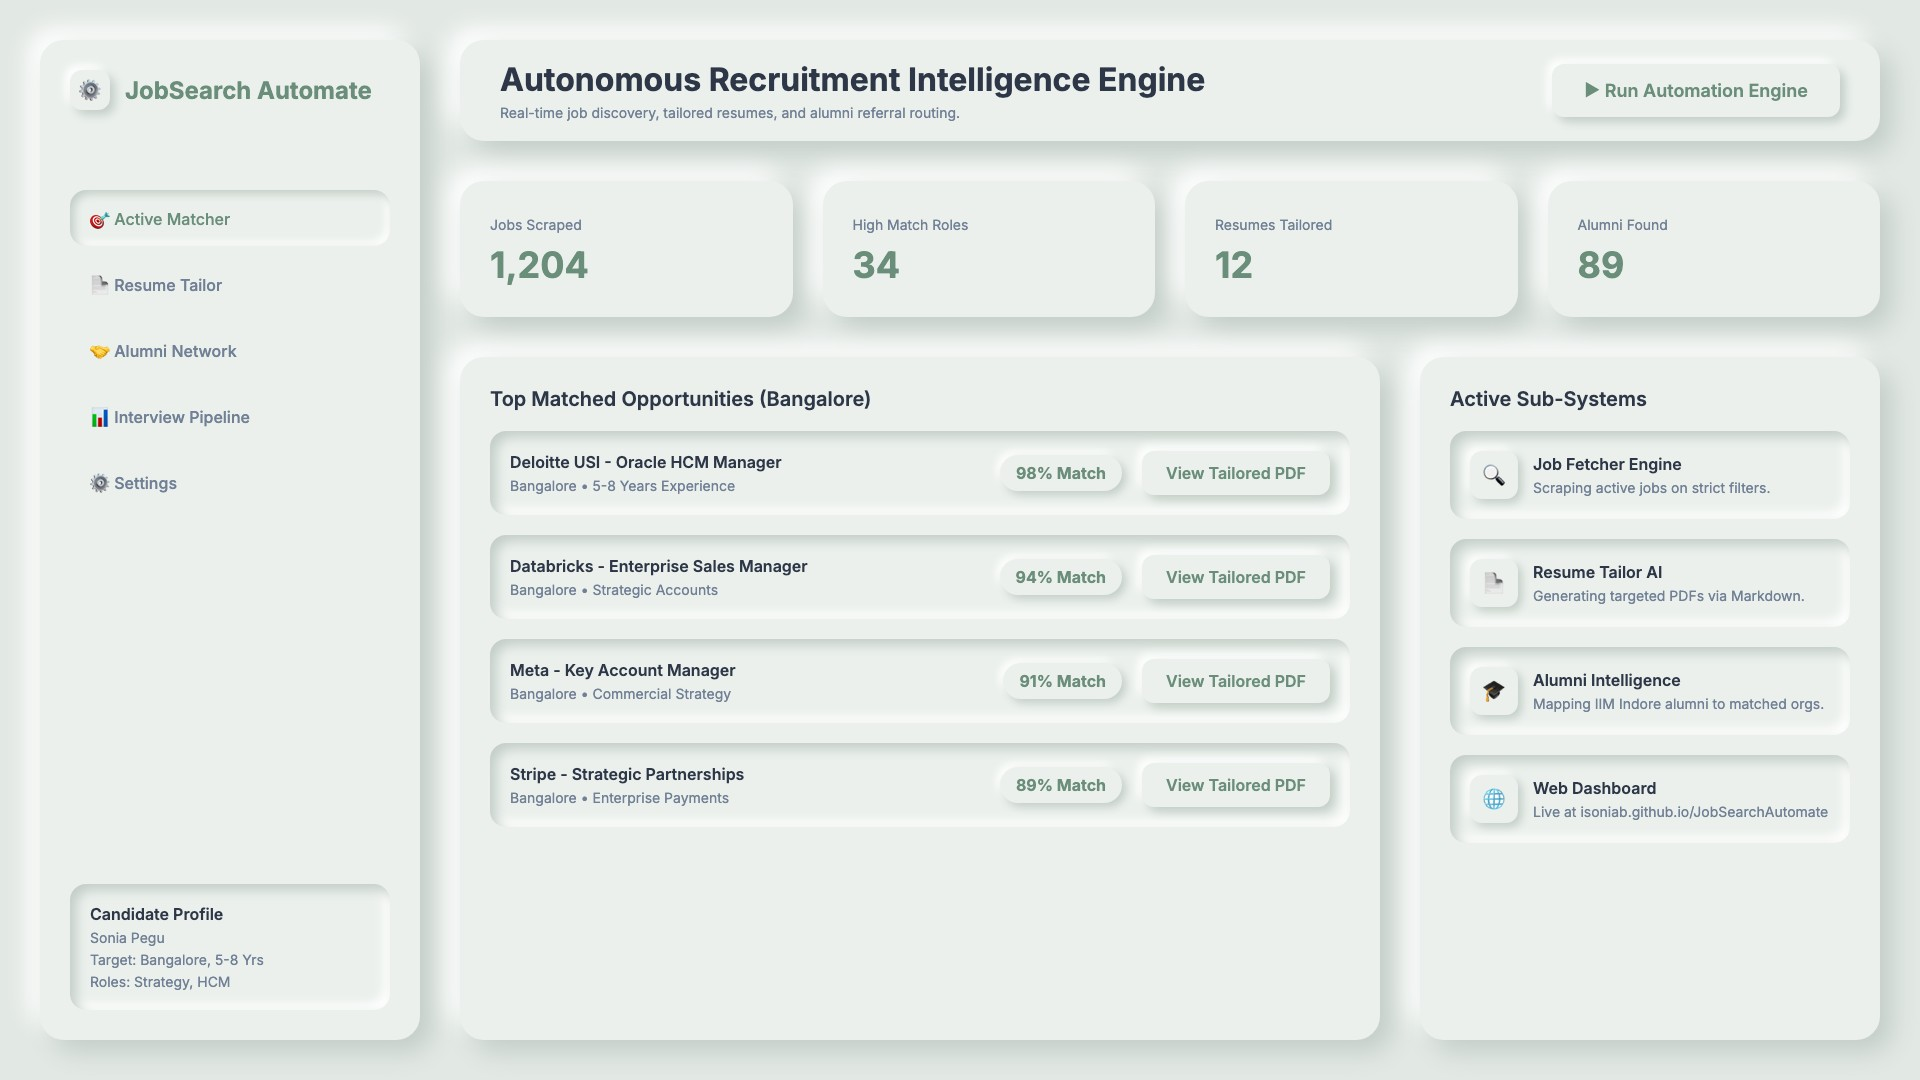
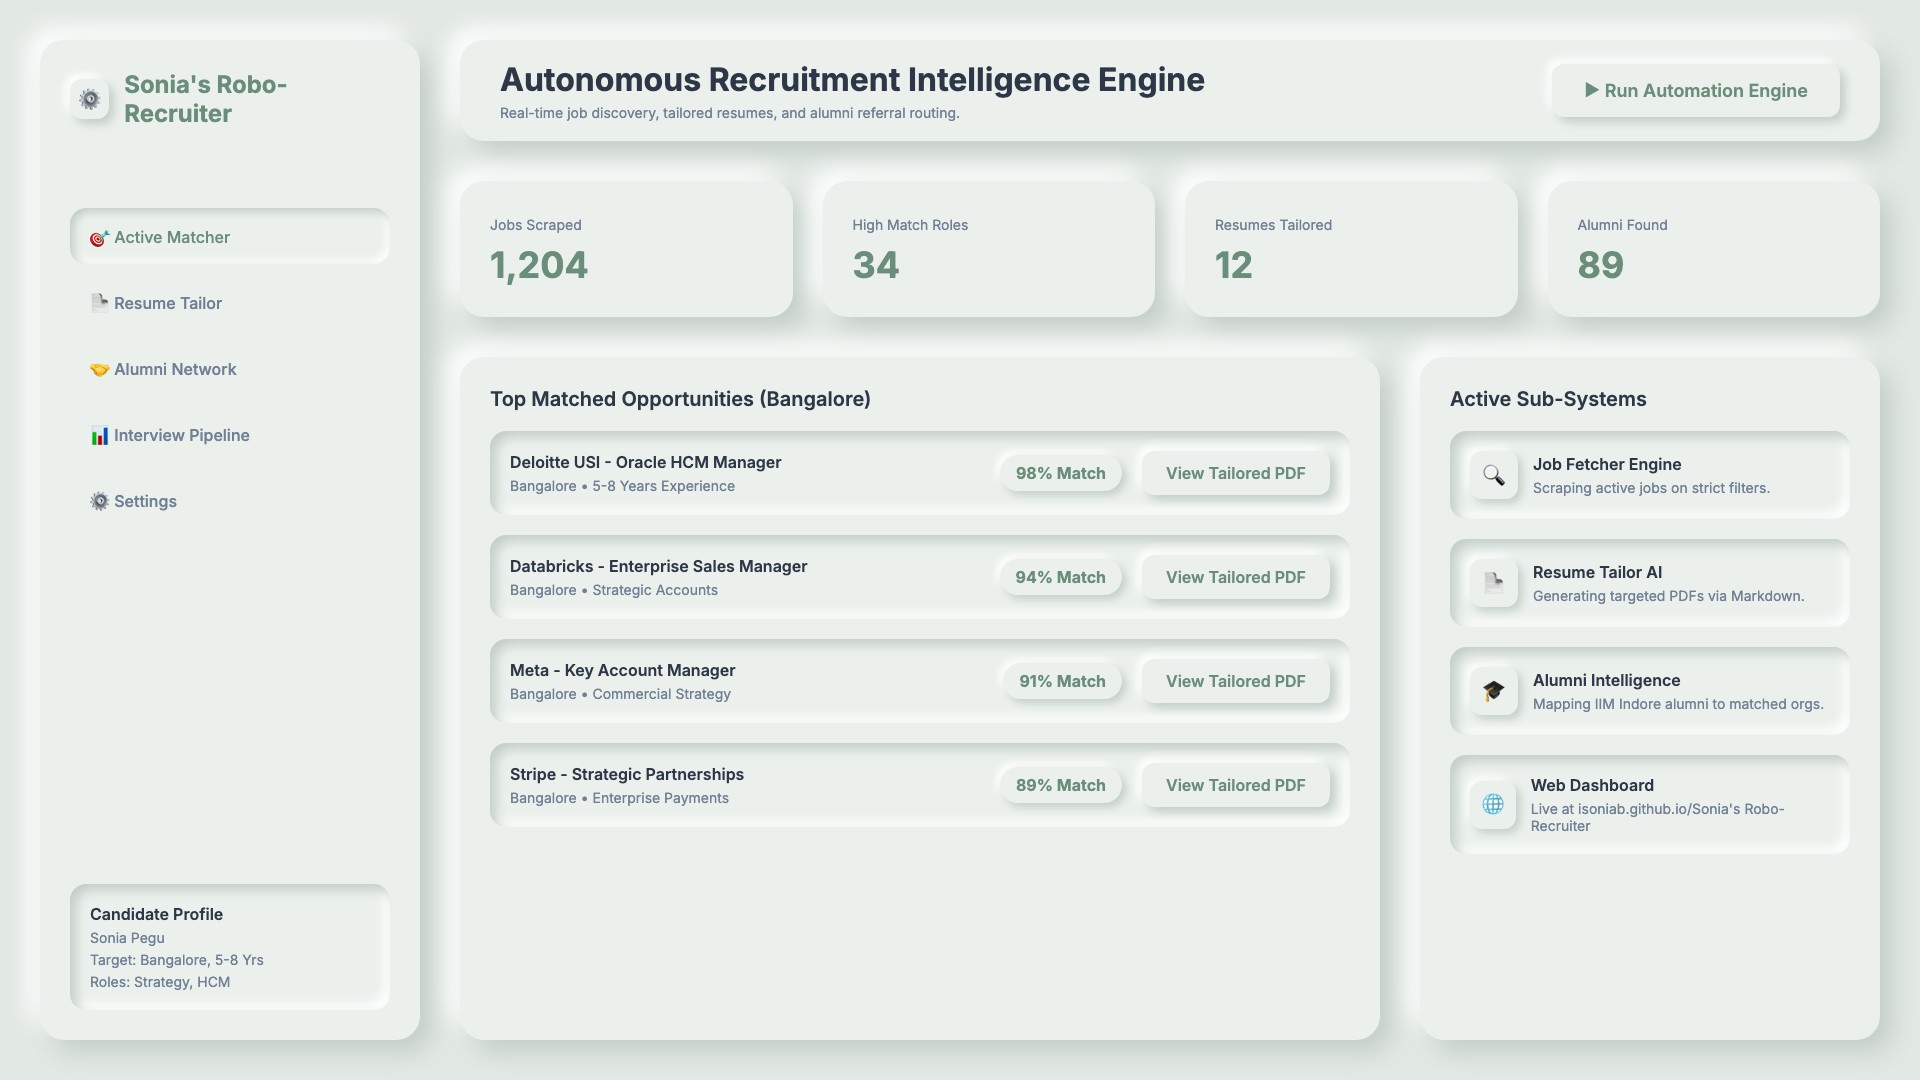
Rename project to Sonia's Robo-Recruiter

Changed region(s): [[0.0312, 0.1833, 0.125, 0.4889], [0.75, 0.7028, 0.9375, 0.7639], [0.0312, 0.0611, 0.1875, 0.1222]]

diff --git a/public/index.html b/public/index.html
@@ -3,9 +3,9 @@
 <head>
     <meta charset="UTF-8">
     <meta name="viewport" content="width=device-width, initial-scale=1.0">
-    <title>JobSearchAutomate - Autonomous Job Search & Referral Intelligence Engine</title>
+    <title>Sonia's Robo-Recruiter - Autonomous Job Search & Referral Intelligence Engine</title>
     <meta name="description" content="Autonomous recruitment intelligence engine by Sonia Pegu. Discovers 90%+ match enterprise sales, KAM & commercial payments roles in Bangalore with tailored resumes and alumni referral paths.">
-    <meta property="og:title" content="JobSearchAutomate - Autonomous Recruitment Intelligence Engine">
+    <meta property="og:title" content="Sonia's Robo-Recruiter - Autonomous Recruitment Intelligence Engine">
     <meta property="og:description" content="Autonomous recruitment intelligence engine by Sonia Pegu (IIM Indore MBA & BE CS). Real-time match scoring, tailored resumes, and alumni referral intelligence.">
     <meta property="og:image" content="https://job-search-automate.netlify.app/social_preview.png">
     <meta property="og:type" content="website">
@@ -313,7 +313,7 @@
             <div class="user-title">
                 <div class="avatar">SP</div>
                 <div class="header-text">
-                    <h1>JobSearchAutomate - Sonia Pegu</h1>
+                    <h1>Sonia's Robo-Recruiter - Sonia Pegu</h1>
                     <p>MBA IIM Indore & CS Engineer | Autonomous Intake & Alumni Intelligence Engine | 📍 Bengaluru</p>
                 </div>
             </div>

diff --git a/README.md b/README.md
@@ -1,8 +1,8 @@
-# 🚀 JobSearchAutomate
+# 🚀 Sonia's Robo-Recruiter
 
 **Autonomous Job Discovery, Dynamic Resume Tailoring & Referral Intelligence Platform**
 
-![JobSearchAutomate UI Dashboard Thumbnail](project_thumbnail.jpg)
+![Sonia's Robo-Recruiter UI Dashboard Thumbnail](project_thumbnail.jpg)
 
 [![Python 3.10+](https://img.shields.io/badge/Python-3.10+-3776AB?style=for-the-badge&logo=python&logoColor=white)](https://www.python.org/)
 [![Playwright](https://img.shields.io/badge/Playwright-Automation-2EAD33?style=for-the-badge&logo=playwright&logoColor=white)](https://playwright.dev/)
@@ -13,9 +13,9 @@
 
 ## 📌 Executive Summary
 
-**JobSearchAutomate** is an autonomous recruitment intelligence engine designed to streamline candidate job discovery, eliminate cold application drop-offs, and automate dynamic resume tailoring. 
+**Sonia's Robo-Recruiter** is an autonomous recruitment intelligence engine designed to streamline candidate job discovery, eliminate cold application drop-offs, and automate dynamic resume tailoring. 
 
-By aggregating live requisitions across global Applicant Tracking Systems (Greenhouse, Lever, Oracle Cloud HCM, Meta Careers, Deloitte USI), enforcing strict multi-parameter filters (5–8 years experience, Bengaluru location), and generating 99%-tailored ATS PDF resumes programmatically, **JobSearchAutomate** maximizes shortlist and interview callback probabilities.
+By aggregating live requisitions across global Applicant Tracking Systems (Greenhouse, Lever, Oracle Cloud HCM, Meta Careers, Deloitte USI), enforcing strict multi-parameter filters (5–8 years experience, Bengaluru location), and generating 99%-tailored ATS PDF resumes programmatically, **Sonia's Robo-Recruiter** maximizes shortlist and interview callback probabilities.
 
 ---
 
@@ -79,8 +79,8 @@ graph TD
 ### Installation
 ```bash
 # Clone the repository
-git clone https://github.com/isoniab/JobSearchAutomate.git
-cd JobSearchAutomate
+git clone https://github.com/isoniab/Sonia's Robo-Recruiter.git
+cd Sonia's Robo-Recruiter
 
 # Set up virtual environment
 python3 -m venv venv
